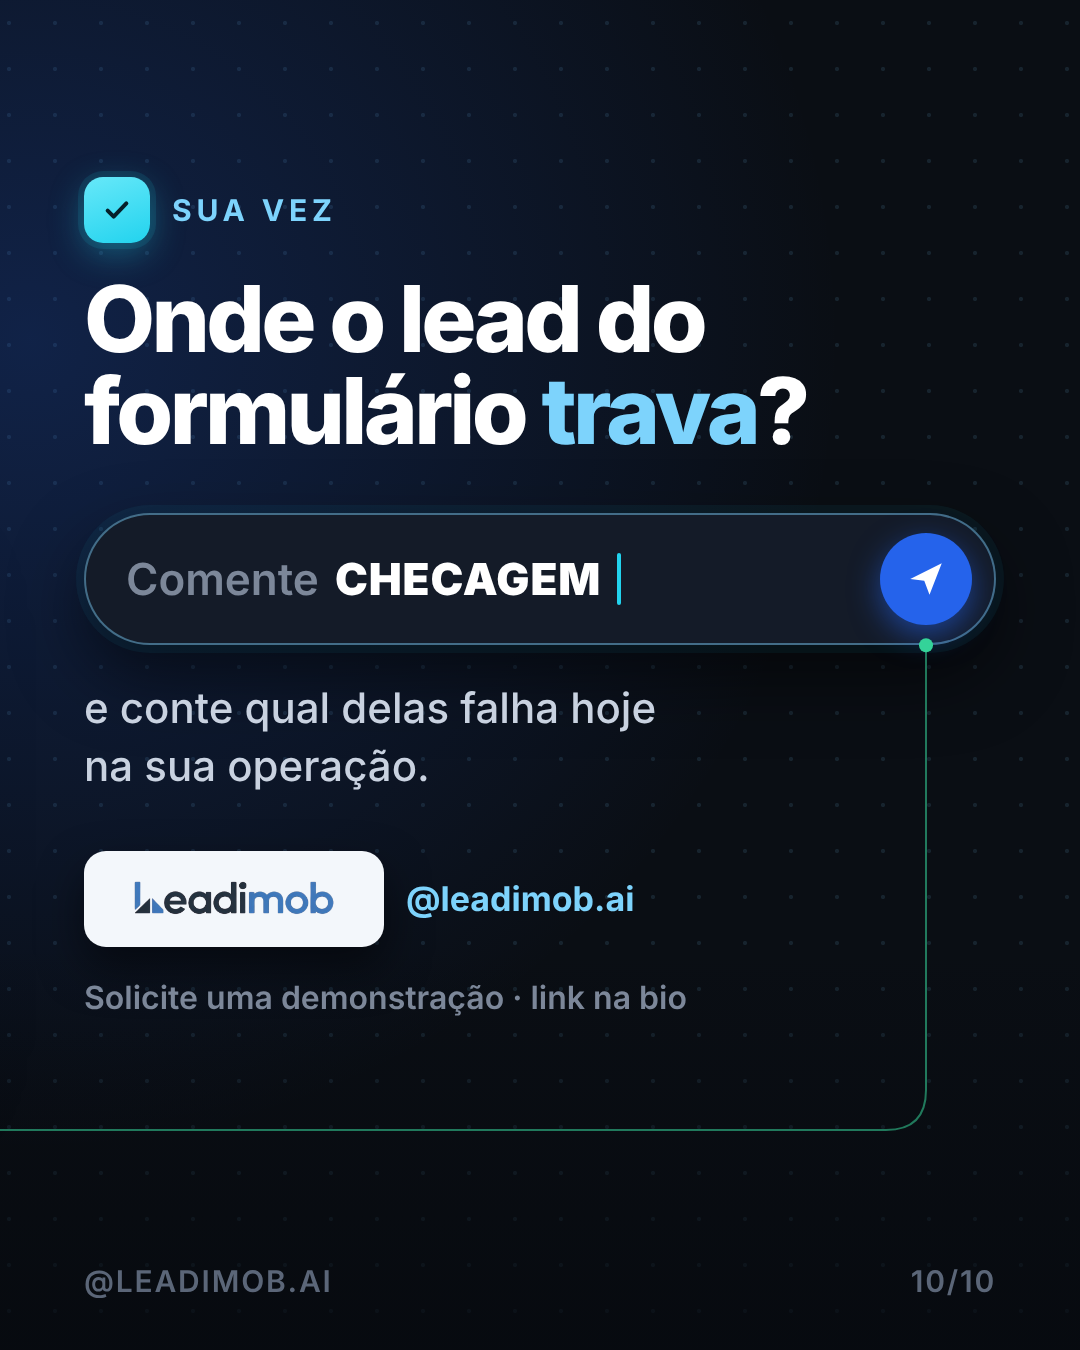
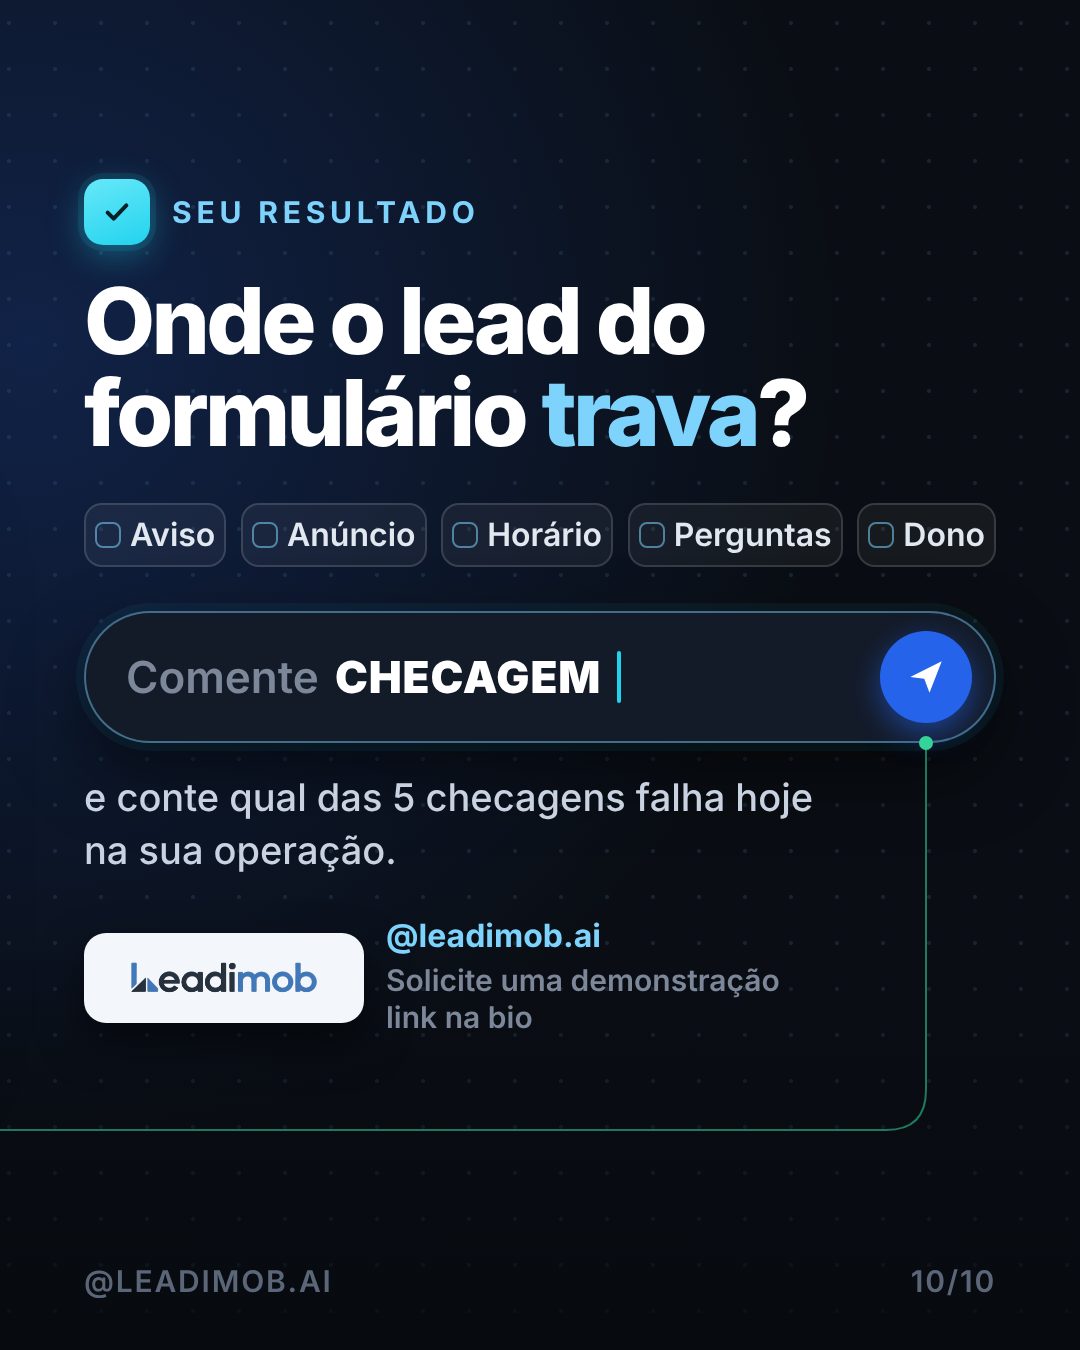
10/10: carrossel rodada 5 (em crítica final)
Claude-Session: https://claude.ai/code/session_016a8cwUDTswJAyhXi9pdNNX

diff --git a/instagram/2026-10-10/src/c1-index.html b/instagram/2026-10-10/src/c1-index.html
@@ -119,12 +119,16 @@ body{background:#0A0E14;width:10800px;height:1350px;overflow:hidden;font-family:
 .ci{display:flex;align-items:center;gap:24px;padding:17px 0;border-top:1px solid rgba(255,255,255,.08);font:600 36px/1.15 IN;color:#E2E8F0}
 .ci:first-child{border-top:0}
 .ci .n{width:50px;height:50px;border-radius:14px;border:3px solid rgba(125,211,252,.55);display:flex;align-items:center;justify-content:center;font:800 30px/1 IN;color:#7DD3FC;flex:none}
+.bx{width:44px;height:44px;border-radius:12px;border:3px solid rgba(125,211,252,.55);flex:none}
+.mini{display:flex;justify-content:space-between;width:912px}
+.mini span{display:inline-flex;align-items:center;gap:9px;padding:14px 9px;border-radius:18px;font:600 32px/1 IN;color:#E2E8F0;background:rgba(255,255,255,.05);border:2px solid rgba(255,255,255,.14)}
+.mini i{width:26px;height:26px;border-radius:8px;border:2.5px solid rgba(125,211,252,.55)}
 /* chat final */
 .chat{width:912px;padding:28px 0 16px}
 .chat .top{display:flex;align-items:center;gap:20px;padding:12px 30px;background:#1F2C34;margin-bottom:26px}
 .chat .top b{display:block;font:700 36px/1.1 IN;color:#E9EDEF}
 .chat .top em{display:block;font:500 30px/1.2 IN;color:#8696A0;font-style:normal}
-.chat .bub{font-size:36px;margin:0 30px 14px;padding:16px 24px 12px}
+.chat .bub{font-size:36px;margin:0 30px 14px;padding:16px 24px 12px;max-width:82%}
 .chat .bout{margin-left:auto}
 </style></head><body><div id="strip">
 <div class="bg"></div>
@@ -172,18 +176,22 @@ body{background:#0A0E14;width:10800px;height:1350px;overflow:hidden;font-family:
 
 <!-- 3 o teste -->
 <div class="sl" style="left:2160px">
- <div class="ttl"><div class="num"><svg width="32" height="32" viewBox="0 0 24 24" fill="none" stroke="#06202A" stroke-width="2.6" stroke-linecap="round" stroke-linejoin="round"><path d="M4 6h16M7 12h10M10 18h4"/></svg></div><div class="kick">Checklist</div></div>
+ <div class="ttl"><div class="num"><svg width="32" height="32" viewBox="0 0 24 24" fill="none" stroke="#06202A" stroke-width="2.6" stroke-linecap="round" stroke-linejoin="round"><path d="M4 6h16M7 12h10M10 18h4"/></svg></div><div class="kick">O teste</div></div>
  <div class="h2">Preencha o seu próprio <span class="hl">formulário</span>.</div>
  <div class="p">Depois, confira as 5 checagens.</div>
- <div class="art" style="width:912px;display:flex;flex-wrap:wrap;gap:18px">
-  <span class="wd nt"><s>1</s>Aviso</span><span class="wd nt"><s>2</s>Anúncio</span><span class="wd nt"><s>3</s>Horário</span><span class="wd nt"><s>4</s>Perguntas</span><span class="wd nt"><s>5</s>Dono</span>
+ <div class="card cl art">
+  <div class="ci"><span class="bx"></span>Aviso</div>
+  <div class="ci"><span class="bx"></span>Anúncio</div>
+  <div class="ci"><span class="bx"></span>Horário</div>
+  <div class="ci"><span class="bx"></span>Perguntas</div>
+  <div class="ci"><span class="bx"></span>Dono</div>
  </div>
  <div class="foot"><span>@LEADIMOB.AI</span><span>3/10</span></div></div>
 
 <!-- 4 checagem 1 -->
-<div class="sl" style="left:3240px;padding-top:216px"><div class="ghost" style="-webkit-text-stroke-color:rgba(125,211,252,.08)">01</div>
- <div class="ttl" style="width:912px"><div class="num">01</div><div class="kick">Checagem 1 · aviso</div><div class="prog"><i class="on"><svg width="18" height="18" viewBox="0 0 24 24"><path d="M5 12.500l4.500 4.500L19 7" stroke="#06202A" stroke-width="4" fill="none" stroke-linecap="round" stroke-linejoin="round"/></svg></i><i></i><i></i><i></i><i></i></div></div>
- <div class="h2">O lead chega a <span class="hl">alguém</span> na hora?</div>
+<div class="sl" style="left:3240px;justify-content:flex-start;padding-top:170px"><div class="ghost" style="-webkit-text-stroke-color:rgba(125,211,252,.08)">01</div>
+ <div class="ttl"><div class="num">01</div><div class="kick">aviso</div></div>
+ <div class="h2">Alguém fica sabendo <span class="hl">na hora</span>?</div>
  <div class="p">Formulário enviado vira aviso no celular, não planilha para baixar depois.</div>
  <div class="card ntf art">
   <div class="ico"><svg width="48" height="48" viewBox="0 0 24 24" fill="none" stroke="#06202A" stroke-width="2.4" stroke-linecap="round" stroke-linejoin="round"><path d="M6 9a6 6 0 0 1 12 0c0 6 2.500 7.500 2.500 7.500h-17S6 15 6 9z"/><path d="M10 20a2.200 2.200 0 0 0 4 0"/></svg></div>
@@ -194,8 +202,8 @@ body{background:#0A0E14;width:10800px;height:1350px;overflow:hidden;font-family:
 <div class="gate" style="left:3440px"><i><svg width="28" height="28" viewBox="0 0 24 24"><path d="M5 12.500l4.500 4.500L19 7" stroke="#06202A" stroke-width="3.4" fill="none" stroke-linecap="round" stroke-linejoin="round"/></svg></i></div>
 
 <!-- 5 checagem 2 -->
-<div class="sl" style="left:4320px"><div class="ghost" style="-webkit-text-stroke-color:rgba(125,211,252,.08)">02</div>
- <div class="ttl" style="width:912px"><div class="num">02</div><div class="kick">Checagem 2 · anúncio</div><div class="prog"><i class="ok"><svg width="18" height="18" viewBox="0 0 24 24"><path d="M5 12.500l4.500 4.500L19 7" stroke="#A5F3FC" stroke-width="4" fill="none" stroke-linecap="round" stroke-linejoin="round"/></svg></i><i class="on"><svg width="18" height="18" viewBox="0 0 24 24"><path d="M5 12.500l4.500 4.500L19 7" stroke="#06202A" stroke-width="4" fill="none" stroke-linecap="round" stroke-linejoin="round"/></svg></i><i></i><i></i><i></i></div></div>
+<div class="sl" style="left:4320px;justify-content:flex-start;padding-top:170px"><div class="ghost" style="-webkit-text-stroke-color:rgba(125,211,252,.08)">02</div>
+ <div class="ttl"><div class="num">02</div><div class="kick">anúncio</div></div>
  <div class="h2">A primeira mensagem cita o <span class="hl">anúncio</span>?</div>
  <div class="p">O cliente precisa reconhecer o imóvel.</div>
  <div class="wa one art" style="padding:30px 30px 32px">
@@ -206,8 +214,8 @@ body{background:#0A0E14;width:10800px;height:1350px;overflow:hidden;font-family:
 <div class="gate" style="left:4690px"><i><svg width="28" height="28" viewBox="0 0 24 24"><path d="M5 12.500l4.500 4.500L19 7" stroke="#06202A" stroke-width="3.4" fill="none" stroke-linecap="round" stroke-linejoin="round"/></svg></i></div>
 
 <!-- 6 checagem 3 -->
-<div class="sl" style="left:5400px"><div class="ghost" style="-webkit-text-stroke-color:rgba(125,211,252,.08)">03</div>
- <div class="ttl" style="width:912px"><div class="num">03</div><div class="kick">Checagem 3 · horário</div><div class="prog"><i class="ok"><svg width="18" height="18" viewBox="0 0 24 24"><path d="M5 12.500l4.500 4.500L19 7" stroke="#A5F3FC" stroke-width="4" fill="none" stroke-linecap="round" stroke-linejoin="round"/></svg></i><i class="ok"><svg width="18" height="18" viewBox="0 0 24 24"><path d="M5 12.500l4.500 4.500L19 7" stroke="#A5F3FC" stroke-width="4" fill="none" stroke-linecap="round" stroke-linejoin="round"/></svg></i><i class="on"><svg width="18" height="18" viewBox="0 0 24 24"><path d="M5 12.500l4.500 4.500L19 7" stroke="#06202A" stroke-width="4" fill="none" stroke-linecap="round" stroke-linejoin="round"/></svg></i><i></i><i></i></div></div>
+<div class="sl" style="left:5400px;justify-content:flex-start;padding-top:170px"><div class="ghost" style="-webkit-text-stroke-color:rgba(125,211,252,.08)">03</div>
+ <div class="ttl"><div class="num">03</div><div class="kick">horário</div></div>
  <div class="h2">Alguém responde às <span class="hl">22h</span>?</div>
  <div class="p">O formulário chega quando o cliente tem tempo: à noite, no fim de semana.</div>
  <div class="card day24 art">
@@ -220,22 +228,22 @@ body{background:#0A0E14;width:10800px;height:1350px;overflow:hidden;font-family:
 <div class="gate" style="left:5940px"><i><svg width="28" height="28" viewBox="0 0 24 24"><path d="M5 12.500l4.500 4.500L19 7" stroke="#06202A" stroke-width="3.4" fill="none" stroke-linecap="round" stroke-linejoin="round"/></svg></i></div>
 
 <!-- 7 checagem 4 -->
-<div class="sl" style="left:6480px;padding-top:236px"><div class="ghost" style="-webkit-text-stroke-color:rgba(125,211,252,.08)">04</div>
- <div class="ttl" style="width:912px"><div class="num">04</div><div class="kick">Checagem 4 · perguntas</div><div class="prog"><i class="ok"><svg width="18" height="18" viewBox="0 0 24 24"><path d="M5 12.500l4.500 4.500L19 7" stroke="#A5F3FC" stroke-width="4" fill="none" stroke-linecap="round" stroke-linejoin="round"/></svg></i><i class="ok"><svg width="18" height="18" viewBox="0 0 24 24"><path d="M5 12.500l4.500 4.500L19 7" stroke="#A5F3FC" stroke-width="4" fill="none" stroke-linecap="round" stroke-linejoin="round"/></svg></i><i class="ok"><svg width="18" height="18" viewBox="0 0 24 24"><path d="M5 12.500l4.500 4.500L19 7" stroke="#A5F3FC" stroke-width="4" fill="none" stroke-linecap="round" stroke-linejoin="round"/></svg></i><i class="on"><svg width="18" height="18" viewBox="0 0 24 24"><path d="M5 12.500l4.500 4.500L19 7" stroke="#06202A" stroke-width="4" fill="none" stroke-linecap="round" stroke-linejoin="round"/></svg></i><i></i></div></div>
+<div class="sl" style="left:6480px;justify-content:flex-start;padding-top:170px"><div class="ghost" style="-webkit-text-stroke-color:rgba(125,211,252,.08)">04</div>
+ <div class="ttl"><div class="num">04</div><div class="kick">perguntas</div></div>
  <div class="h2">Alguém pergunta <span class="hl">antes</span> de mandar imóveis?</div>
  <div class="p">As respostas dizem o que vale enviar.</div>
  <div class="qs art">
   <div class="q nt"><svg width="34" height="34" viewBox="0 0 24 24"><path d="M5 12.500l4.500 4.500L19 7" stroke="#22D3EE" stroke-width="3" fill="none" stroke-linecap="round" stroke-linejoin="round"/></svg>Morar ou investir?</div>
   <div class="q nt"><svg width="34" height="34" viewBox="0 0 24 24"><path d="M5 12.500l4.500 4.500L19 7" stroke="#22D3EE" stroke-width="3" fill="none" stroke-linecap="round" stroke-linejoin="round"/></svg>Qual região?</div>
   <div class="q nt"><svg width="34" height="34" viewBox="0 0 24 24"><path d="M5 12.500l4.500 4.500L19 7" stroke="#22D3EE" stroke-width="3" fill="none" stroke-linecap="round" stroke-linejoin="round"/></svg>Até quanto?</div>
-  <div class="q nt"><svg width="34" height="34" viewBox="0 0 24 24"><path d="M5 12.500l4.500 4.500L19 7" stroke="#22D3EE" stroke-width="3" fill="none" stroke-linecap="round" stroke-linejoin="round"/></svg>Quantos quartos?</div>
+  <div class="q nt"><svg width="34" height="34" viewBox="0 0 24 24"><path d="M5 12.500l4.500 4.500L19 7" stroke="#22D3EE" stroke-width="3" fill="none" stroke-linecap="round" stroke-linejoin="round"/></svg>Para quando?</div>
  </div>
  <div class="foot"><span>@LEADIMOB.AI</span><span>7/10</span></div></div>
 <div class="gate" style="left:7190px"><i><svg width="28" height="28" viewBox="0 0 24 24"><path d="M5 12.500l4.500 4.500L19 7" stroke="#06202A" stroke-width="3.4" fill="none" stroke-linecap="round" stroke-linejoin="round"/></svg></i></div>
 
 <!-- 8 checagem 5 -->
-<div class="sl" style="left:7560px"><div class="ghost" style="-webkit-text-stroke-color:rgba(125,211,252,.08)">05</div>
- <div class="ttl" style="width:912px"><div class="num">05</div><div class="kick">Checagem 5 · dono</div><div class="prog"><i class="ok"><svg width="18" height="18" viewBox="0 0 24 24"><path d="M5 12.500l4.500 4.500L19 7" stroke="#A5F3FC" stroke-width="4" fill="none" stroke-linecap="round" stroke-linejoin="round"/></svg></i><i class="ok"><svg width="18" height="18" viewBox="0 0 24 24"><path d="M5 12.500l4.500 4.500L19 7" stroke="#A5F3FC" stroke-width="4" fill="none" stroke-linecap="round" stroke-linejoin="round"/></svg></i><i class="ok"><svg width="18" height="18" viewBox="0 0 24 24"><path d="M5 12.500l4.500 4.500L19 7" stroke="#A5F3FC" stroke-width="4" fill="none" stroke-linecap="round" stroke-linejoin="round"/></svg></i><i class="ok"><svg width="18" height="18" viewBox="0 0 24 24"><path d="M5 12.500l4.500 4.500L19 7" stroke="#A5F3FC" stroke-width="4" fill="none" stroke-linecap="round" stroke-linejoin="round"/></svg></i><i class="on"><svg width="18" height="18" viewBox="0 0 24 24"><path d="M5 12.500l4.500 4.500L19 7" stroke="#06202A" stroke-width="4" fill="none" stroke-linecap="round" stroke-linejoin="round"/></svg></i></div></div>
+<div class="sl" style="left:7560px;justify-content:flex-start;padding-top:170px"><div class="ghost" style="-webkit-text-stroke-color:rgba(125,211,252,.08)">05</div>
+ <div class="ttl"><div class="num">05</div><div class="kick">dono</div></div>
  <div class="h2">Cada lead tem <span class="hl">dono</span> e próximo passo?</div>
  <div class="p">Sem isso, ele volta para a planilha.</div>
  <div class="card crm art">
@@ -250,7 +258,7 @@ body{background:#0A0E14;width:10800px;height:1350px;overflow:hidden;font-family:
 <div class="sl" style="left:8640px">
  <div class="ttl"><div class="num"><svg width="34" height="34" viewBox="0 0 24 24"><path d="M12 3c5 0 9 3.600 9 8.200S17 19.500 12 19.500c-1 0-2-.15-2.900-.42L4.500 21l1.200-3.900C4 15.600 3 13.500 3 11.200 3 6.600 7 3 12 3z" fill="#06202A"/></svg></div><div class="kick">Onde a Leadimob entra</div></div>
  <div class="h2" style="font-size:84px">Formulário enviado. <span style="color:#6EE7B7">Conversa iniciada.</span></div>
- <div class="p">A Leadimob puxa a conversa no seu WhatsApp na hora, 24h, citando o anúncio.</div>
+ <div class="p" style="font-size:34px;white-space:nowrap;letter-spacing:-.01em">Abre a conversa no WhatsApp na hora, citando o anúncio.</div>
  <div class="wa chat art" id="a-chat" style="margin-top:40px">
   <div class="bub bout">Oi, Carla! Sobre o apto de 2 quartos do anúncio: é para morar ou investir?<div class="bt">22:47 <svg class="tk" viewBox="0 0 34 22"><path d="M2 12l6 6L20 4M14 18l12-14" stroke="#53BDEB" stroke-width="3" fill="none" stroke-linecap="round" stroke-linejoin="round"/></svg></div></div>
   <div class="bub bin">Para morar. Pode mandar as fotos?<div class="bt">22:48</div></div>
@@ -258,20 +266,20 @@ body{background:#0A0E14;width:10800px;height:1350px;overflow:hidden;font-family:
  </div>
  <div class="foot"><span>@LEADIMOB.AI</span><span>9/10</span></div></div>
 
-<!-- 10 CTA -->
-<div class="sl" style="left:9720px;padding-bottom:250px">
- <div class="ttl"><div class="num"><svg width="32" height="32" viewBox="0 0 24 24"><path d="M5 12.500l4.500 4.500L19 7" stroke="#06202A" stroke-width="3" fill="none" stroke-linecap="round" stroke-linejoin="round"/></svg></div><div class="kick">Sua vez</div></div>
+<!-- 10 CTA: seu resultado -->
+<div class="sl" style="left:9720px;padding-bottom:230px">
+ <div class="ttl"><div class="num"><svg width="32" height="32" viewBox="0 0 24 24"><path d="M5 12.500l4.500 4.500L19 7" stroke="#06202A" stroke-width="3" fill="none" stroke-linecap="round" stroke-linejoin="round"/></svg></div><div class="kick">Seu resultado</div></div>
  <div class="h2">Onde o lead do formulário <span class="hl">trava</span>?</div>
- <div id="a-field" style="margin-top:56px;height:132px;border-radius:66px;background:#141B28;border:2px solid rgba(125,211,252,.45);box-shadow:0 0 0 8px rgba(34,211,238,.06),0 30px 70px rgba(0,0,0,.55);display:flex;align-items:center;padding:0 22px 0 40px;gap:16px;font:600 44px IN">
+ <div class="mini" style="margin-top:44px"><span><i></i>Aviso</span><span><i></i>Anúncio</span><span><i></i>Horário</span><span><i></i>Perguntas</span><span><i></i>Dono</span></div>
+ <div id="a-field" style="margin-top:44px;height:132px;border-radius:66px;background:#141B28;border:2px solid rgba(125,211,252,.45);box-shadow:0 0 0 8px rgba(34,211,238,.06),0 30px 70px rgba(0,0,0,.55);display:flex;align-items:center;padding:0 22px 0 40px;gap:16px;font:600 44px IN">
   <span style="color:#7C8799">Comente</span><span style="font-weight:900;letter-spacing:.02em">CHECAGEM</span><span style="width:4px;height:52px;background:#22D3EE;border-radius:2px"></span>
   <span id="a-send" style="margin-left:auto;width:92px;height:92px;border-radius:50%;background:#2563EB;display:flex;align-items:center;justify-content:center;box-shadow:0 10px 30px rgba(37,99,235,.55)"><svg width="42" height="42" viewBox="0 0 24 24"><path d="M3 12 L21 3 L14 21 L11 13 Z" fill="#fff"/></svg></span>
  </div>
- <div class="p" style="margin-top:34px">e conte qual delas falha hoje<br>na sua operação.</div>
- <div style="margin-top:56px;display:flex;align-items:center;gap:22px">
-  <div style="width:300px;height:96px;border-radius:22px;background:#F3F7FB;display:flex;align-items:center;justify-content:center;box-shadow:0 20px 44px rgba(0,0,0,.5)"><img src="logo.png" style="width:240px"></div>
-  <div style="font:700 34px/1 IN;color:#7DD3FC">@leadimob.ai</div>
+ <div class="p" style="margin-top:28px;font-size:38px;max-width:780px">e conte qual das 5 checagens falha hoje na sua operação.</div>
+ <div style="margin-top:44px;display:flex;align-items:center;gap:22px">
+  <div style="width:280px;height:90px;border-radius:22px;background:#F3F7FB;display:flex;align-items:center;justify-content:center;box-shadow:0 20px 44px rgba(0,0,0,.5)"><img src="logo.png" style="width:224px"></div>
+  <div><div style="font:700 32px/1 IN;color:#7DD3FC">@leadimob.ai</div><div style="margin-top:10px;font:600 30px/1.25 IN;color:#7C8799">Solicite uma demonstração<br>link na bio</div></div>
  </div>
- <div style="margin-top:30px;font:600 32px/1.3 IN;color:#7C8799">Solicite uma demonstração · link na bio</div>
  <div class="foot"><span>@LEADIMOB.AI</span><span>10/10</span></div></div>
 </div>
 <script>

diff --git a/instagram/2026-10-10/carrossel/carrossel-editor.html b/instagram/2026-10-10/carrossel/carrossel-editor.html
@@ -312,7 +312,7 @@ input[type=range]{width:100%;accent-color:#6C5CE7;height:18px;cursor:pointer;}
     </div>
   </div>
 </div>
-<script id="deck-data" type="application/json">{"kit": "tech", "formato": "4:5", "paleta": {"bg": "#0A0E14", "fg": "#FFFFFF", "muted": "#8A93A3", "accent": "#22D3EE", "surface": "#141B28", "cream": "#F3F7FB"}, "handle": "@leadimob.ai", "slides": [{"tipo": "capa", "kicker": "CHECKLIST · SALVE ESTE POST", "titulo": "O lead preencheu. Alguém respondeu?", "sub": "5 checagens para ver onde o lead do formulário trava."}, {"tipo": "conteudo", "kicker": "O PROBLEMA", "titulo": "Chegou sábado, 22:47. E parou na planilha.", "sub": "Ninguém foi avisado. Ninguém escreveu."}, {"tipo": "conteudo", "kicker": "CHECKLIST", "titulo": "Preencha o seu próprio formulário.", "sub": "Depois, confira as 5 checagens: Aviso · Anúncio · Horário · Perguntas · Dono."}, {"tipo": "conteudo", "kicker": "CHECAGEM 1 · AVISO", "titulo": "O lead chega a alguém na hora?", "sub": "Formulário enviado vira aviso no celular, não planilha para baixar depois."}, {"tipo": "conteudo", "kicker": "CHECAGEM 2 · ANÚNCIO", "titulo": "A primeira mensagem cita o anúncio?", "sub": "O cliente precisa reconhecer o imóvel."}, {"tipo": "conteudo", "kicker": "CHECAGEM 3 · HORÁRIO", "titulo": "Alguém responde às 22h?", "sub": "O formulário chega quando o cliente tem tempo: à noite, no fim de semana."}, {"tipo": "conteudo", "kicker": "CHECAGEM 4 · PERGUNTAS", "titulo": "Alguém pergunta antes de mandar imóveis?", "sub": "As respostas dizem o que vale enviar."}, {"tipo": "conteudo", "kicker": "CHECAGEM 5 · DONO", "titulo": "Cada lead tem dono e próximo passo?", "sub": "Sem isso, ele volta para a planilha."}, {"tipo": "conteudo", "kicker": "ONDE A LEADIMOB ENTRA", "titulo": "Formulário enviado. Conversa iniciada.", "sub": "A Leadimob puxa a conversa no seu WhatsApp na hora, 24h, citando o anúncio."}, {"tipo": "cta", "kicker": "SUA VEZ", "titulo": "Onde o lead do formulário trava?", "sub": "Comente CHECAGEM e conte qual delas falha hoje na sua operação."}]}</script>
+<script id="deck-data" type="application/json">{"kit": "tech", "formato": "4:5", "paleta": {"bg": "#0A0E14", "fg": "#FFFFFF", "muted": "#8A93A3", "accent": "#22D3EE", "surface": "#141B28", "cream": "#F3F7FB"}, "handle": "@leadimob.ai", "slides": [{"tipo": "capa", "kicker": "CHECKLIST · SALVE ESTE POST", "titulo": "O lead preencheu. Alguém respondeu?", "sub": "5 checagens para ver onde o lead do formulário trava."}, {"tipo": "conteudo", "kicker": "O PROBLEMA", "titulo": "Chegou sábado, 22:47. E parou na planilha.", "sub": "Ninguém foi avisado. Ninguém escreveu."}, {"tipo": "conteudo", "kicker": "O TESTE", "titulo": "Preencha o seu próprio formulário.", "sub": "Depois, confira as 5 checagens: Aviso · Anúncio · Horário · Perguntas · Dono."}, {"tipo": "conteudo", "kicker": "01 · AVISO", "titulo": "Alguém fica sabendo na hora?", "sub": "Formulário enviado vira aviso no celular, não planilha para baixar depois."}, {"tipo": "conteudo", "kicker": "02 · ANÚNCIO", "titulo": "A primeira mensagem cita o anúncio?", "sub": "O cliente precisa reconhecer o imóvel."}, {"tipo": "conteudo", "kicker": "03 · HORÁRIO", "titulo": "Alguém responde às 22h?", "sub": "O formulário chega quando o cliente tem tempo: à noite, no fim de semana."}, {"tipo": "conteudo", "kicker": "04 · PERGUNTAS", "titulo": "Alguém pergunta antes de mandar imóveis?", "sub": "As respostas dizem o que vale enviar."}, {"tipo": "conteudo", "kicker": "05 · DONO", "titulo": "Cada lead tem dono e próximo passo?", "sub": "Sem isso, ele volta para a planilha."}, {"tipo": "conteudo", "kicker": "ONDE A LEADIMOB ENTRA", "titulo": "Formulário enviado. Conversa iniciada.", "sub": "Abre a conversa no WhatsApp na hora, citando o anúncio."}, {"tipo": "cta", "kicker": "SEU RESULTADO", "titulo": "Onde o lead do formulário trava?", "sub": "Comente CHECAGEM e conte qual das 5 checagens falha hoje na sua operação."}]}</script>
 <script>
 const KITS = {
   "editorial":     {disp:"Anton", body:"Inter", mono:"JetBrains Mono", serif:"Instrument Serif",
